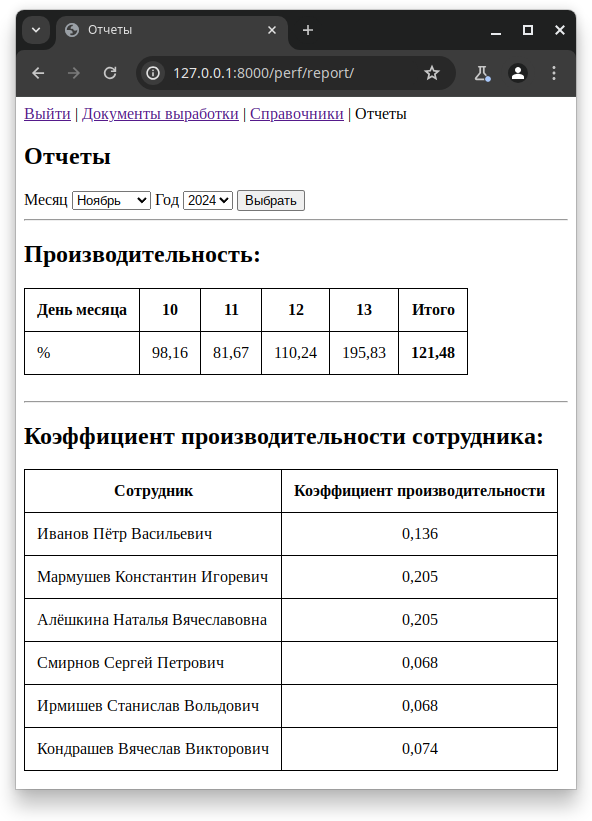
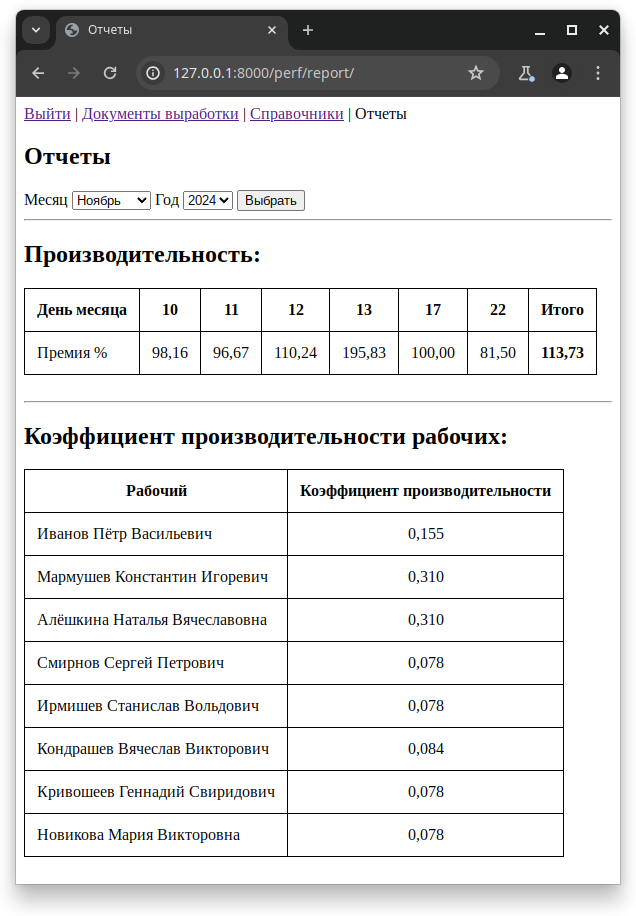
28.11.2024 20:43 Correction

Changed region(s): [[0.0, 0.0, 1.0, 0.9744]]

diff --git a/SalaryInProduction/performance/templates/reports.html b/SalaryInProduction/performance/templates/reports.html
@@ -35,7 +35,7 @@
                 <th>Итого</th>
             </tr>
             <tr>
-                <td> % </td>
+                <td> Премия % </td>
                 {% for doc in docs %}
                     <td> {{ doc.percent|floatformat:2 }} </td>
                 {% endfor %}

diff --git a/SalaryInProduction/performance/views.py b/SalaryInProduction/performance/views.py
@@ -34,7 +34,7 @@ def array_for_date_selection():
     ]
 
     years = []
-    for i in range(year-5, year+2):
+    for i in range(year-5, year+1):
         years.append(i)
 
     return years, mounts, year, month
@@ -315,7 +315,7 @@ def report_view(request):
             workers[obj.employee] = obj.working.hour * 60 + obj.working.minute
 
     for key, value in workers.items():
-        workers[key] = value / NORMA_MIN
+        workers[key] = value / NORMA_MIN * float(percent_avg / 100)
 
     context = {
         'docs': docs,

diff --git a/README.md b/README.md
@@ -56,4 +56,10 @@
 <p>1. Отчет о производительности производственного предприятия согласно с нормами выработки за месяц (для администрации)</p>
 <p>2. Отчет о коэффициенте производительности (КП)  рабочих, для расчета премиальной части оклада. (для бухгалтерии) </p>
 <p>Формула для расчета КП</p>
-<p align="center"><i>КП рабочего = Время затраченное рабочим за месяц мин/ (22дня * 8час * 60мин)</i></p>
+<p align="center"><i>КП = Отработанное время<sub>(мин/мес)</sub> / Норма времени<sub>(мин/мес)</sub> / Выработка<sub>(сред/мес)</sub></i></p>
+<p>
+КП - Коэффициент производительности рабочего<br>
+Отработанное время<sub>(мин/мес)</sub> - Затраченное время сотрудником за месяц<br>
+Норма времени<sub>(мин/мес)</sub> - (22дня * 8час * 60мин)<br>
+Выработка<sub>(сред/мес)</sub> - средний процент выработки за месяц
+</p>
